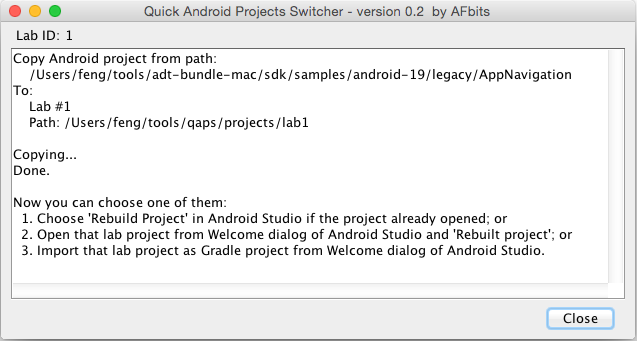
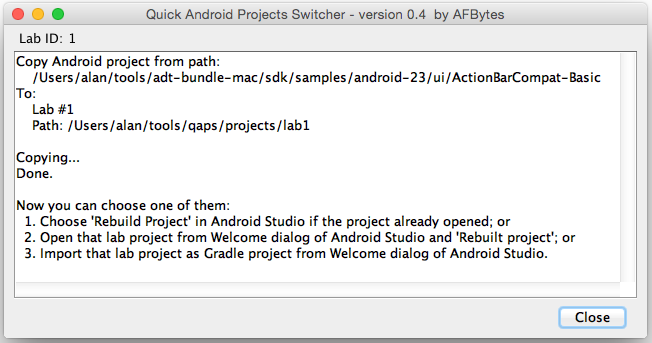
Releases version 0.4 - adds supporting the import of the project with main source code in directory "Application", for example the sample projects in Android SDK (like android-23).

Changed region(s): [[0.0, 0.0, 1.0, 0.9971]]

diff --git a/README.md b/README.md
@@ -55,12 +55,12 @@ After the installation, you can run QAPS in the Command Line way or GUI way.
 Open a console, and run like this (assume that you add the "$/bin" to the $PATH):
 
 ```
-konHKT:~ feng$ qaps.sh copy ~/tools/adt-bundle-mac/sdk/samples/android-19/legacy/AppNavigation
+afHKT:~ alan$ qaps.sh copy ~/tools/adt-bundle-mac/sdk/samples/android-23/ui/ActionBarCompat-Basic
 Copy Android project from path:
-    /Users/feng/tools/adt-bundle-mac/sdk/samples/android-19/legacy/AppNavigation
+    /Users/alan/tools/adt-bundle-mac/sdk/samples/android-23/ui/ActionBarCompat-Basic
 To:
     Lab #1
-    Path: /Users/feng/tools/qaps/projects/lab1
+    Path: /Users/alan/tools/qaps/projects/lab1
 
 Copying...
 Done.
@@ -69,7 +69,7 @@ Now you can choose one of them:
   1. Choose 'Rebuild Project' in Android Studio if the project already opened; or
   2. Open that lab project from Welcome dialog of Android Studio and 'Rebuilt project'; or
   3. Import that lab project as Gradle project from Welcome dialog of Android Studio.
-konHKT:~ feng$
+afHKT:~ alan$
 ```
 
 2. GUI way
